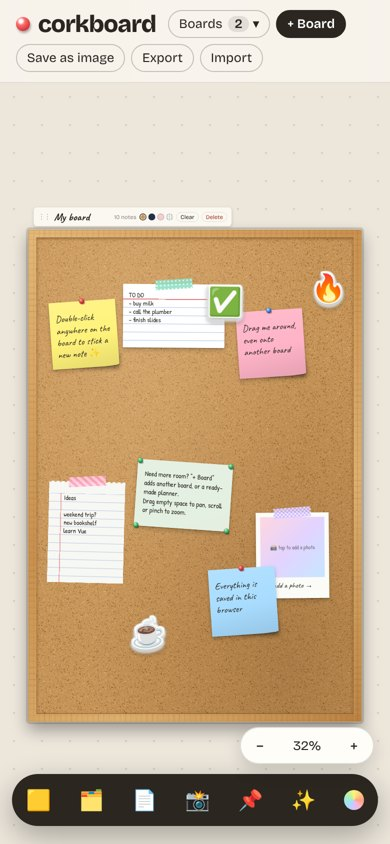
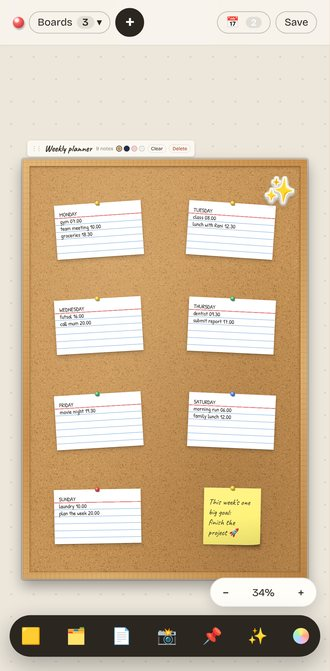
docs: tidy README (fix a broken code block, one place per topic, fresh screenshots)

diff --git a/README.md b/README.md
@@ -1,13 +1,13 @@
 # corkboard
 
-**An endless wall of cork boards in your browser.** Pin sticky notes, index cards, lined paper,
-polaroids, stickers and washi tape, plan your week, run a kanban, build a moodboard.
-No account, no server: everything stays on your device.
+**An endless wall of cork boards on your laptop and phone.** Pin sticky notes, index cards, lined paper, polaroids,
+stickers and washi tape; plan your week, run a kanban, build a moodboard. Write a time next to a plan and it lands in
+your agenda and on your desktop widget. No account, no server: everything stays on your device.
 
-![A board with sticky notes, an index card, a polaroid and stickers](docs/board.jpg)
+![The Start here board: a welcome card, a How to use note, a to-do card and stickers](docs/board.jpg)
 
-Made for the way people actually plan: students with exams and group projects,
-office folks juggling tasks and meetings, and anyone who thinks better with paper on a wall.
+Made for the way people actually plan: students with exams and group projects, office folks juggling tasks and
+meetings, and anyone who thinks better with paper on a wall.
 
 ## Install
 
@@ -17,59 +17,45 @@ office folks juggling tasks and meetings, and anyone who thinks better with pape
   <a href="https://epinnn14.github.io/corkboard/#install"><img src="docs/install-phone.svg" alt="Install on phone" height="56"></a>
 </p>
 
-**On a laptop (Windows):** the button downloads `corkboard.exe` straight away. Open it and corkboard installs itself
-and starts, with its widget on your desktop. After that it runs **locally on your laptop, no internet needed**:
-your boards are saved on the laptop, the clock, the date and the widget's calendar page follow the laptop's own clock,
-reminders pop up as Windows notifications, and **📆 Add to my calendar** in the agenda puts everything into the
-laptop's calendar (Windows Calendar, Outlook). Windows may say the publisher is unknown: *More info → Run anyway*.
+**Windows laptop:** the button downloads `corkboard.exe`. Open it and corkboard installs itself, starts, and puts its
+widget on your desktop. It runs **on your laptop, no internet needed**: boards are saved on the laptop, the date and time
+follow the laptop's clock, and reminders pop up as Windows notifications. Windows may say the publisher is unknown
+(the app isn't code-signed): *More info → Run anyway*.
 
-**On a phone** (or a Mac / Chromebook): **Install on phone** opens corkboard with an install window ready for the
-device you're on (or scan the code with your phone camera):
+<img src="docs/install-qr.svg" width="130" align="right" alt="QR code to install corkboard on a phone">
 
-<img src="docs/install-qr.svg" width="150" align="right" alt="QR code to install corkboard on a phone">
+**Phone, Mac or Chromebook:** **Install on phone** (or scan the code) opens corkboard with an install window for your
+device: one **Install now** button on Android and in Chrome/Edge; on iPhone and iPad, *Share → Add to Home Screen*.
 
-- **Android, Mac / Chromebook (Chrome or Edge):** one **Install now** button, then confirm once. corkboard gets its
-  own icon and lands on the home screen, Dock or launcher.
-- **iPhone / iPad:** Apple doesn't let websites show an install button, so the window shows the two taps:
-  *Share → Add to Home Screen*.
+Or just use it in the browser: **[epinnn14.github.io/corkboard](https://epinnn14.github.io/corkboard/)**.
 
-No app store, no account, works offline. To remove it, uninstall it like any other app.
+## How to use it
 
-### Windows app: the desktop widget
+The first time, you see every board: **Start here** (what corkboard is, with a *How to use* note), a **Weekly planner**
+already filled in (its times are in the agenda and the widget straight away) and a **Kanban**. Change them, or remove
+them with a board's *Delete* button.
 
-**[⬇ Download corkboard.exe](https://github.com/Epinnn14/corkboard/releases/latest/download/corkboard.exe)**
+![First open: Start here, a filled-in Weekly planner and a Kanban](docs/boards.jpg)
 
-Open the file: corkboard installs itself, starts, and puts its **widget on your desktop**: a tear-off calendar page
-and the time, today's reminders on a sticky note (tick them off right there) and what's coming up on an index card.
+| | |
+|---|---|
+| Add a note | double-click the board, or use the dock at the bottom |
+| Write | click a note |
+| Move | drag a note (also onto another board); drag a board by its frame or name tag |
+| Pan / zoom | drag empty space · scroll wheel or pinch · `+` `−` · `0` shows every board |
+| Change a note | select it: colour, tape or pin, 📅 date, duplicate, remove |
+| Plan with times | write the time next to the thing: `gym 18.00`, under a `MONDAY` heading or with a day (`fri 3pm`) |
+| Tick things off | the checkbox in the agenda or the circle on the widget: the line gets crossed out |
+| Undo | the toast's **Undo**, or `Ctrl/⌘ + Z` |
+| Keys | `N` new sticky · `B` new board · `A` agenda · `Delete` remove · `Esc` deselect |
+| Keep / share | **Save** downloads the board as a PNG · **+** has new boards, import and export |
 
-<p align="center"><img src="docs/widget.jpg" width="640" alt="The corkboard widget in its Cork, Paper and Dark styles"></p>
+## Boards and notes
 
-- It shows **today's notes** to start with: the time-stamped lines of today's planner card, crossed out when you
-  tick them. **‹ ›** on the sticky flips to other days.
-- Pick what it shows (date & clock, the day's notes, coming up, a mini board) and its style (Cork, Paper, Dark, or
-  **Notes only**: just the papers on your desktop, no backdrop) from the widget's ⋯ menu → *Customize*.
-  A mini board's notes sit straight on the widget.
-- **Any size**: drag the bottom-left corner, or pick Auto / Small / Medium / Large / Custom. The smallest is one
-  sticky note (220 × 220); the biggest is your screen. Drag it by its top strip; it remembers where, and
-  *Show the widget* (tray or **+** menu) brings it to the top-right corner.
-- Click a reminder to open it in the full corkboard (Start menu / desktop shortcut). Both show the same boards:
-  change a note in one, the other follows.
-- **Closing the corkboard window keeps the widget** on your desktop (corkboard waits by the clock, in the tray).
-- **While the widget is on, corkboard starts with Windows**, so the widget and your **reminders** are there every day.
-  Close the widget yourself (⋯ → *Close widget*) and it stops starting with Windows, until you show it again.
-- Tray menu: open, customize, show the widget, keep it on top, start with Windows, quit.
-- Windows may say the publisher is unknown (the app isn't code-signed): *More info → Run anyway*.
-- The app keeps its own boards. To bring your website boards along: **+ → Backup** on the website,
-  then **+ → Import files** in the app.
-
-## Boards, as many as you want
-
-The workspace has no edges. Add a board for every class, client or side quest, drag boards
-around, zoom out to see everything, and drag a note from one board straight onto another.
+The workspace has no edges: add a board for every class, client or side quest, zoom out to see them all, and drag a
+note from one board straight onto another. Boards are landscape on wide screens and portrait on phones.
 
 ![The workspace zoomed out: six boards side by side](docs/workspace.jpg)
-
-New boards come blank or from a template:
 
 | Template | What's on it |
 |---|---|
@@ -79,151 +65,113 @@ New boards come blank or from a template:
 | 🌈 **Moodboard** | taped polaroids and vibe words on blush linen |
 | 💡 **Brainstorm** | one big question in the middle, a ring of rainbow stickies |
 
-![Template picker](docs/templates.jpg)
-
-## On every board
-
-- **Sticky notes** in 12 colours (canary to periwinkle) plus a picker for any colour you like.
-- **Index cards**, **lined paper** with a perforated edge, **cards** held by four pins.
-- **Polaroids** with your own photos (downscaled to stay light) and a handwritten caption.
-- **Stickers**: a sheet of 24 die-cut emoji (✨🔥💯✅📚☕🧠🚀🫶…).
-- **Washi tape** instead of a push-pin: pink stripes, mint dots, sun grid, kraft or lilac check.
-- **Four surfaces** per board: cork, midnight felt, blush linen, dot-grid paper.
-- Boards are **landscape on wide screens and portrait on phones**, picked automatically.
-
 <p align="center">
-  <img src="docs/toolbar.jpg" width="360" alt="A selected sticky note with its colour palette">
+  <img src="docs/toolbar.jpg" width="330" alt="A selected sticky note with its colour palette">
   &nbsp;
-  <img src="docs/mobile.jpg" width="220" alt="corkboard on a phone">
+  <img src="docs/mobile.jpg" width="200" alt="corkboard on a phone">
 </p>
 
-## How to use it
+- **Sticky notes** in 12 colours plus any colour you pick, **index cards**, **lined paper**, **cards** with four pins.
+- **Polaroids**: tap the picture to add your own photo, write a caption underneath.
+- **Stickers** (24 die-cut emoji), **washi tape** instead of a pin, four **surfaces**: cork, felt, linen, dot-grid paper.
 
-The first time you open corkboard you see all its boards: **Start here** (what corkboard is, and a *How to use* note),
-a **Weekly planner** already filled in (its times are in the Agenda and the widget straight away, so you can see how it
-works) and a **Kanban**. Change them, or delete them with the board's *Delete* button.
+## Agenda
 
-![First open: Start here, a filled-in Weekly planner and a Kanban](docs/boards.jpg)
+<img src="docs/agenda.jpg" width="270" align="right" alt="The agenda: a box per day, times in boxes, ticked items crossed out, your own notes under each">
 
-| | |
-|---|---|
-| Add a note | double-click the board, or use the dock at the bottom |
-| Write | click a note |
-| Move | drag a note (also onto another board), drag a board by its frame or name tag |
-| Pan / zoom | drag empty space · scroll wheel or pinch · `+` `−` · `0` shows everything |
-| Change a note | select it: colour, tape/pin, duplicate, remove |
-| Undo | the toast's **Undo**, or `Ctrl/⌘ + Z` (notes, cleared boards and deleted boards) |
-| Plan with times | write the time next to the thing: `gym 18.00`, under a `MONDAY` heading or with a day (`fri 3pm`); it's in the Agenda and the widget, and rings at the time |
-| Dates | select a note → 📅: pick a day and time, a reminder (at time, 10 min, 1 h, 1 day before); tap the chip to tick it done |
-| Tick things off | the checkbox in the Agenda or the circle on the widget: the line gets crossed out |
-| Keys | `N` new sticky · `B` new board · `A` agenda · `Delete` remove · `Esc` deselect |
-| Keep / share | **Save** downloads the current board as a PNG · the **+** menu has New board, Import and Export (below) |
+- **Times you write go on the agenda by themselves.** Under a `MONDAY` heading, `buy milk 10.00` becomes
+  *Monday 10:00 · buy milk*. It reads `10.00`, `10:00`, `3pm`, `7.30 pm`, `jam 10`, `pukul 14.15`, and days as
+  *today*, *tomorrow / besok*, weekday names in English or Indonesian, `12/11`, `12 Nov`, `2026-11-12`.
+- **A box per day** (Overdue, Today, Tomorrow, then each day), every item with its time. Tick one and it's crossed
+  out, in the agenda and in the note. Under each item, **+ add a note** for your own details.
+- **Dates and reminders** on any note with 📅: a day, a time, and a reminder at the time, 10 min, 1 h or 1 day before.
+- Reminders pop up while corkboard is open; on Windows the widget keeps it open all day.
+- **📆 Add to my calendar** puts everything still to come into Windows Calendar, Outlook, Google or Apple Calendar (.ics).
 
-## Dates, reminders & widget
+## Desktop widget
 
-<img src="docs/agenda.jpg" width="280" align="right" alt="The agenda: a box per day, times in boxes, ticked items crossed out, your own notes under each">
+<p align="center"><img src="docs/widget.jpg" width="640" alt="The widget in its Cork, Paper, Dark and Notes only styles"></p>
 
-- **Times written in a note go on the agenda by themselves**: under a `MONDAY` heading, `buy milk 10.00` becomes
-  *Monday 10:00 · buy milk*. It reads 10.00, 10:00, 3pm, 7.30 pm, “jam 10”, “pukul 14.15”; days as today,
-  tomorrow/besok, weekday names in English or Indonesian, 12/11, 12 Nov, 2026-11-12. Tick one in the agenda or the
-  widget and the line gets crossed out in the note too.
-- **Agenda** (top right, or `A`): a box per day (Overdue, Today, Tomorrow, then each day), each item with its time in
-  a box. Ticked items stay where they are, crossed out. Under each one, **+ add a note** for your own details
-  ("bring the racket"). Click an item to jump to its note; **📆 Add to my calendar** exports everything still to come.
-- **Due dates** on any note show a chip (overdue red, today orange, done ticked).
-- **Reminders** pop up as a banner and a system notification while corkboard is open (a tab or the installed app).
-  For reminders when it is closed, use **Add to calendar** in the date editor: an `.ics` file with an alarm
-  (Windows Calendar, Outlook, Apple, Google) or a Google Calendar link.
-- **Install as an app** (see [Install](#install)): works offline and gets its own icon, with shortcuts to *Widget*
-  and *Agenda*.
-- **Desktop widget** (**+** → *Desktop widget*): pick what to show (date & clock, today's reminders, the coming 7 days,
-  a mini board) and a style (Cork, Paper, Dark), with a live preview. Get it on your desktop with the
-  [Windows app](#windows-app-the-desktop-widget), or *Open widget* in a small browser window.
-- **Widget mode** (`#widget`): the same widget in the current window, handy from the home-screen shortcut on a phone.
+- A tear-off calendar page with the time, and **today's notes** on a sticky. Tick them off right there; **‹ ›**
+  flips to other days. Add *Coming up* (the next 7 days) or a mini board if you like.
+- Four styles: **Cork**, **Paper**, **Dark**, or **Notes only** (just the papers on your desktop).
+- **Any size**, from one sticky note up to the whole screen: drag its bottom-left corner, or pick a size in *Customize*.
+  Move it by its top middle. *Show the widget* brings it to the top-right corner.
+- In the Windows app it stays on the desktop when you close corkboard, and **starts with Windows while it's on**.
+  Close the widget yourself (⋯ → *Close widget*) and it stops starting with Windows, until you show it again.
+- On a phone or in the browser: **+** → *Desktop widget* → *Open widget*, or *Widget mode*.
 
 ## Import & export
 
-The **+** menu (top left, next to *Boards*) adds boards, turns files into boards and boards into files.
-
-**Import** (pick several files at once):
+**Import** from the **+** menu (several files at once):
 
 | File | Becomes |
 |---|---|
-| `.txt`, `.html` | a board named after the file; short paragraphs → sticky notes, medium → index cards, long → lined paper; bullet lists → one sticky per item |
-| `.md` | same, plus `# Title` names the board and `## Headings` become index cards |
-| `.csv` | one note per row, labelled by the header (`Due: Fri`) |
-| `.pdf` | the PDF's text, split into paragraphs (pdf.js) |
-| `.docx` | the Word document's text (mammoth) |
+| `.txt`, `.html` | a board named after the file: short paragraphs → stickies, longer → index cards or lined paper |
+| `.md` | the same, `# Title` names the board and `## Headings` become index cards |
+| `.csv` | one note per row, labelled by the header |
+| `.pdf`, `.docx` | the document's text, split into notes |
 | images | polaroids on the current board |
 | `.json` | a corkboard backup |
 
-Big files flow onto extra boards ("Lecture (1)", "Lecture (2)" …).
+**Export** every board as Word, PDF (a picture of each board plus all the text), plain text, Markdown or a JSON backup.
+The backup is also how you move boards between the website and the Windows app.
 
-**Export all boards as:** Word (.docx, sticky colours as shading, photos embedded) · PDF (a picture of each board
-plus every note as searchable text) · plain text · Markdown (for Notion/Obsidian) · JSON backup.
-
-## Run it
+## For developers
 
 ```bash
 npm install
 npm run dev       # http://localhost:5173
 npm test          # 94 tests
-npm run build     # static site in dist/ (relative paths, host it anywhere)
+npm run build     # the website in dist/ (relative paths, host it anywhere)
 ```
-
-Pushing to `main` runs the tests and deploys to GitHub Pages
-(*Settings → Pages → Source: GitHub Actions*), and builds `corkboard.exe` on a Windows runner and attaches it
-to the GitHub release of the current version (`desktop/package.json`).
 
 The Windows app (Electron) is in `desktop/`:
 
 ```bash
-npm run build                 # the website, in dist/
+npm run build                 # the website first
 cd desktop && npm install
 npm start                     # run it
-npm run dist                  # desktop/release/corkboard.exe (run on Windows)
-``` Workspaces from v1.0 (single board) are migrated automatically.
+npm run dist                  # desktop/release/corkboard.exe (on Windows)
+```
 
-## How it's built
+Every push to `main` runs the tests, deploys the website to GitHub Pages and builds `corkboard.exe` on a Windows
+runner for the release of the current version. Boards saved by older versions are upgraded automatically.
 
-Vue 3 (`<script setup>`) · Pinia · TypeScript · Vite · idb-keyval · html-to-image · pdf.js · mammoth · docx · jsPDF ·
-vite-plugin-pwa · Electron (Windows app) · Fontsource (Bricolage Grotesque, Caveat, Patrick Hand) · Vitest + Vue Test Utils + fake-indexeddb
+**Built with** Vue 3 · Pinia · TypeScript · Vite · vite-plugin-pwa · Electron · idb-keyval · html-to-image · pdf.js ·
+mammoth · docx · jsPDF · Fontsource (Bricolage Grotesque, Caveat, Patrick Hand) · Vitest.
+
+<details>
+<summary>Project layout</summary>
 
 ```
 src/
 ├── core/                 plain TypeScript, no Vue
 │   ├── board.ts          notes, colours, stickers, tapes, surfaces, safe parsing
-│   ├── workspace.ts      camera (fit, zoom-at-cursor), board placement, hit-testing, file import + v1 migration
-│   ├── templates.ts      planner / kanban / study / moodboard / brainstorm layouts (work in both orientations)
-│   ├── convert.ts        text / markdown / csv → packed notes across boards, notes → txt / md
-│   ├── io.ts             file readers (pdf.js, mammoth) and writers (docx, jsPDF), loaded on demand
-│   ├── dates.ts          due dates, agenda groups, reminder timing, .ics and Google Calendar links
-│   ├── desk.ts           desktop widget settings, window sizes, today/coming-up lists
-│   ├── detect.ts         times and days written in notes → agenda items; crossing a line out
-│   ├── desktop.ts        the bridge to the Windows app (widget window, settings)
-│   ├── sync.ts           autosave + keeping several corkboard windows in step (BroadcastChannel)
-│   ├── install.ts        device/browser detection and install steps
-│   ├── notify.ts         system notifications (through the service worker when installed)
-│   ├── texture.ts        cork, felt, linen and dot-grid surfaces painted on a canvas
-│   └── storage.ts        IndexedDB persistence
-├── stores/workspace.ts   Pinia: boards, notes, cross-board drops, undo
-└── components/
-    ├── Workspace.vue     the endless canvas: pan, wheel/pinch zoom
-    ├── BoardView.vue     one framed board with its name tag
-    ├── NoteItem.vue      one note: drag, edit, paper styles, stickers, tape, toolbar, due chip
-    ├── DueEditor.vue     date, reminder and add-to-calendar popover
-    ├── AgendaPanel.vue   every dated note across boards
-    ├── WidgetView.vue    the widget (#widget): calendar page, today, coming up, mini board
-    ├── DeskSheet.vue     "Desktop widget": what it shows, its style, the Windows app or a pop-up
-    ├── InstallSheet.vue  the #install window: one-click install or the steps for this device
-    └── PushPin.vue
-desktop/                  the Windows app (Electron)
+│   ├── workspace.ts      camera, board placement, hit-testing, file import
+│   ├── templates.ts      planner / kanban / study / moodboard / brainstorm layouts
+│   ├── convert.ts        text / markdown / csv → notes, notes → txt / md
+│   ├── io.ts             file readers (pdf.js, mammoth) and writers (docx, jsPDF)
+│   ├── dates.ts          due dates, agenda days, reminders, .ics
+│   ├── detect.ts         times and days written in notes → agenda items
+│   ├── desk.ts           widget settings, sizes, the day's list
+│   ├── desktop.ts        the bridge to the Windows app
+│   ├── sync.ts           autosave, keeping several windows in step
+│   ├── install.ts        install steps per device and browser
+│   ├── notify.ts         system notifications
+│   ├── texture.ts        cork, felt, linen and paper surfaces drawn on a canvas
+│   └── storage.ts        IndexedDB
+├── stores/workspace.ts   Pinia: boards, notes, drops between boards, undo
+└── components/           Workspace, BoardView, NoteItem, DueEditor, AgendaPanel,
+                          WidgetView, DeskSheet, InstallSheet, PushPin
+desktop/
 ├── main.cjs              tray, the widget window, the app window, start with Windows
 └── preload.cjs           window.corkboardDesktop for the web app
 ```
 
-Everything on screen is drawn with CSS, SVG and canvas: no image assets.
-See [ROADMAP.md](ROADMAP.md).
+</details>
+
+Everything on screen is drawn with CSS, SVG and canvas. See [ROADMAP.md](ROADMAP.md) for what's next.
 
 ## License
 
